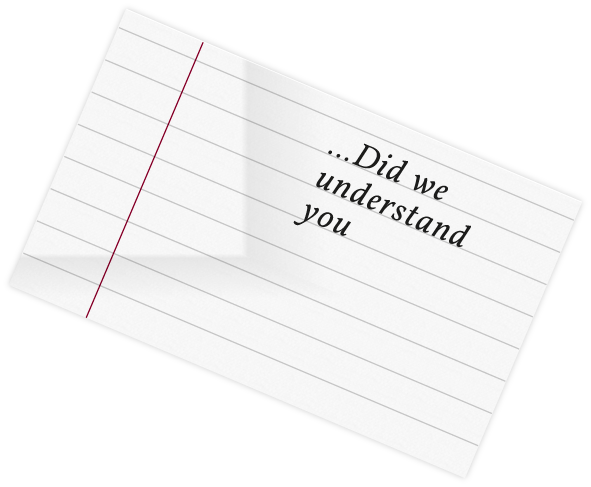
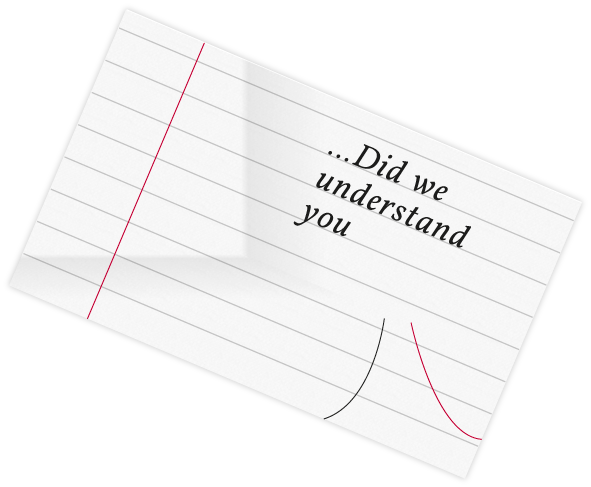
howwework: removing filet paper and animating clock

diff --git a/less/howwework.less b/less/howwework.less
@@ -387,15 +387,23 @@
 			height:487px;
 			left:401px;
 			top:2763px;
-			z-index:106; // let this object be over the water, not under
+			z-index:100;
 		}
-		&.filetpaper{
-			background-image: url(../images/_illustrations/filet_paper.png);
-			width:690px;
-			height:420px;
-			left:231px;
-			top:2805px;
-			z-index:107; // let this object be over the water, not under
+		&.clock{
+			background-image: url(../images/_clock/bg-clock.png);
+			width:100px;
+			height:102px;
+			left:315px;
+			top:3121px;
+			z-index:100;
+		}
+		&.clock.hour{
+			background-image: url(../images/_clock/hour.png);
+			z-index:101;
+		}
+		&.clock.minute{
+			background-image: url(../images/_clock/minute.png);
+			z-index:102;
 		}
 		&.questionmark{
 			background-image: url(../images/_badges/questionmark.png);

diff --git a/grabscroll.html b/grabscroll.html
@@ -377,7 +377,9 @@ http://vimeo.com/estcreativity/likes/rss
 
 			<div class="illus notebook"><span>Let's meet and bring on paper...</span></div>
 			<div class="illus paper"><span>... Did we understand you</span></div>
-			<div class="illus filetpaper"></div>
+			<div class="illus clock cadran"></div>
+			<div class="illus clock hour"></div>
+			<div class="illus clock minute"></div>
 			<div class="illus questionmark"><span>?</span></div>
 			<div class="illus aw arrow07"><span>&gt;</span></div>
 			<div class="illus aw arrow08"><span>&gt;</span></div>

diff --git a/js/howwework.js b/js/howwework.js
@@ -45,6 +45,8 @@ how.objects = [
 	{ name : 'rightglass' , behavior : 'waggle', alea: 100, delta : 10},
 
 	{ name : 'questionmark' , behavior : 'rotateright', alea: 0, delta : 100},
+	{ name : 'clock.minute' , behavior : 'rotateright', alea: 0, delta : 50},
+	{ name : 'clock.hour' , behavior : 'rotateright', alea: 0, delta : 500},
 
 	{ name : 'strategyribbon' , behavior : 'goright', alea: null, delta : 30},
 	{ name : 'whitechess' , behavior : 'goleft', alea: null, delta : 50},
